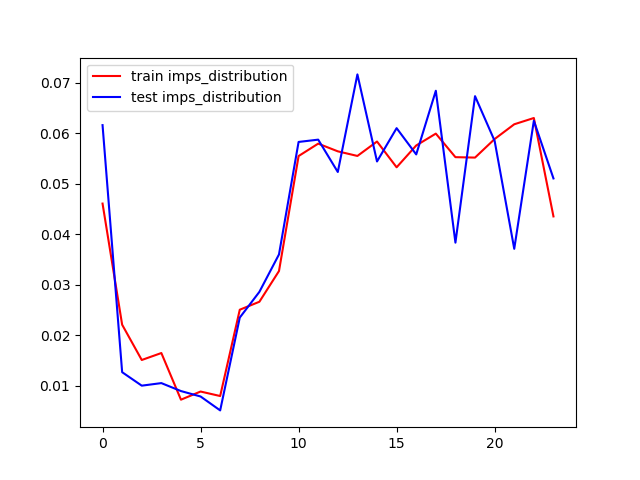
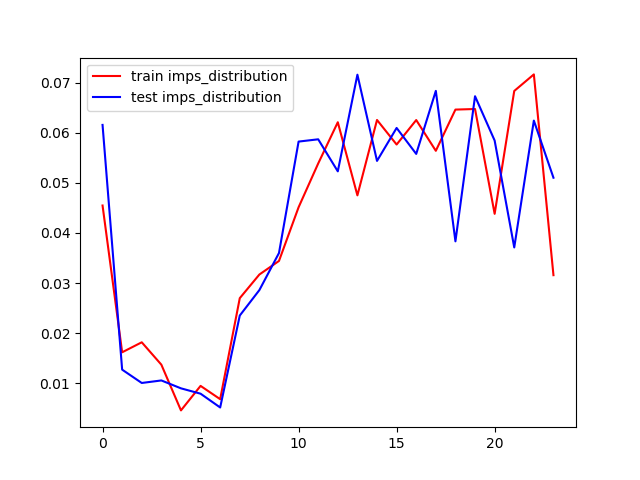
修改训练集为0608,测试集为0609

diff --git a/src/feature_engineering/down_sample.py b/src/feature_engineering/down_sample.py
@@ -8,19 +8,19 @@ random.seed(999)
 原始数据统计
 0606 448164 328 30096630
 0607 478109 307 30228554
-0608 413804 347 30615541
-0609 423726 351 30548604
-0610 434240 370 30303929 √
+0608 413804 347 30615541 √ 训练
+0609 423726 351 30548604 √ 测试
+0610 434240 370 30303929 
 0611 437520 395 30309883
 0612 447493 356 30297100
 '''
 # 负采样后达到的点击率
 CLICK_RATE = 0.001  # 1:1000
 
-# 20130610一天
+# 20130608一天
 def getSampleRate():
-    click = 370  #20130610 1天
-    total = 434240  # 20130610 1天
+    click = 347  #20130608 1天
+    total = 413804  # 20130608 1天
     rate = click / (CLICK_RATE * (total - click))
     # 原始数据中的点击和曝光总数
     print('clicks: {0} impressions: {1}\n'.format(click, total))
@@ -32,8 +32,8 @@ def getSampleRate():
 # 获取训练样本
 sample_rate = getSampleRate()
 
-with open( '../../sample/20130610_train_sample.csv', 'w') as fo:
-    fi = open('../../data/20130610_train_data.csv')
+with open( '../../sample/20130608_train_sample.csv', 'w') as fo:
+    fi = open('../../data/20130608_train_data.csv')
     p = 0 # 原始正样本
     n = 0 # 原始负样本
     nn = 0 # 剩余的负样本
@@ -46,7 +46,7 @@ with open( '../../sample/20130610_train_sample.csv', 'w') as fo:
             label = line.split(',')[0] # 是否点击标签
             if int(label) == 0:
                 n += 1
-                if random.randint(0, 434240) <= 434240 * sample_rate:  # down sample, 选择对应数据量的负样本
+                if random.randint(0, 413804) <= 413804 * sample_rate:  # down sample, 选择对应数据量的负样本
                     fo.write(line)
                     nn += 1
             else:
@@ -59,10 +59,10 @@ with open( '../../sample/20130610_train_sample.csv', 'w') as fo:
 # print(c, n, p+nn, p, nn, (p+nn)/c, nn / n, p / nn)
 print('训练数据负采样完成')
 
-# 20130612一天
+# 20130609一天
 def getTestSampleRate():
-    click = 356  # 20130612一天
-    total = 447493  # 20130612一天
+    click = 351  # 20130609一天
+    total = 423726  # 20130609一天
     rate = click / (CLICK_RATE * (total - click))
     # 原始数据中的点击和曝光总数
     print('clicks: {0} impressions: {1}\n'.format(click, total))
@@ -75,8 +75,8 @@ def getTestSampleRate():
 test_sample_rate = getTestSampleRate()
 
 # 获取测试样本,20130612一天
-with open( '../../sample/20130612_test_sample.csv', 'w') as fo:
-    fi = open('../../data/20130612_test_data.csv')
+with open( '../../sample/20130609_test_sample.csv', 'w') as fo:
+    fi = open('../../data/20130609_test_data.csv')
     p = 0 # 原始正样本
     n = 0 # 原始负样本
     nn = 0 # 剩余的负样本
@@ -89,7 +89,7 @@ with open( '../../sample/20130612_test_sample.csv', 'w') as fo:
             label = line.split(',')[0] # 是否点击标签
             if int(label) == 0:
                 n += 1
-                if random.randint(0, 447493) <= 447493 * test_sample_rate:  # down sample, 选择对应数据量的负样本
+                if random.randint(0, 423726) <= 423726 * test_sample_rate:  # down sample, 选择对应数据量的负样本
                     fo.write(line)
                     nn += 1
             else:
